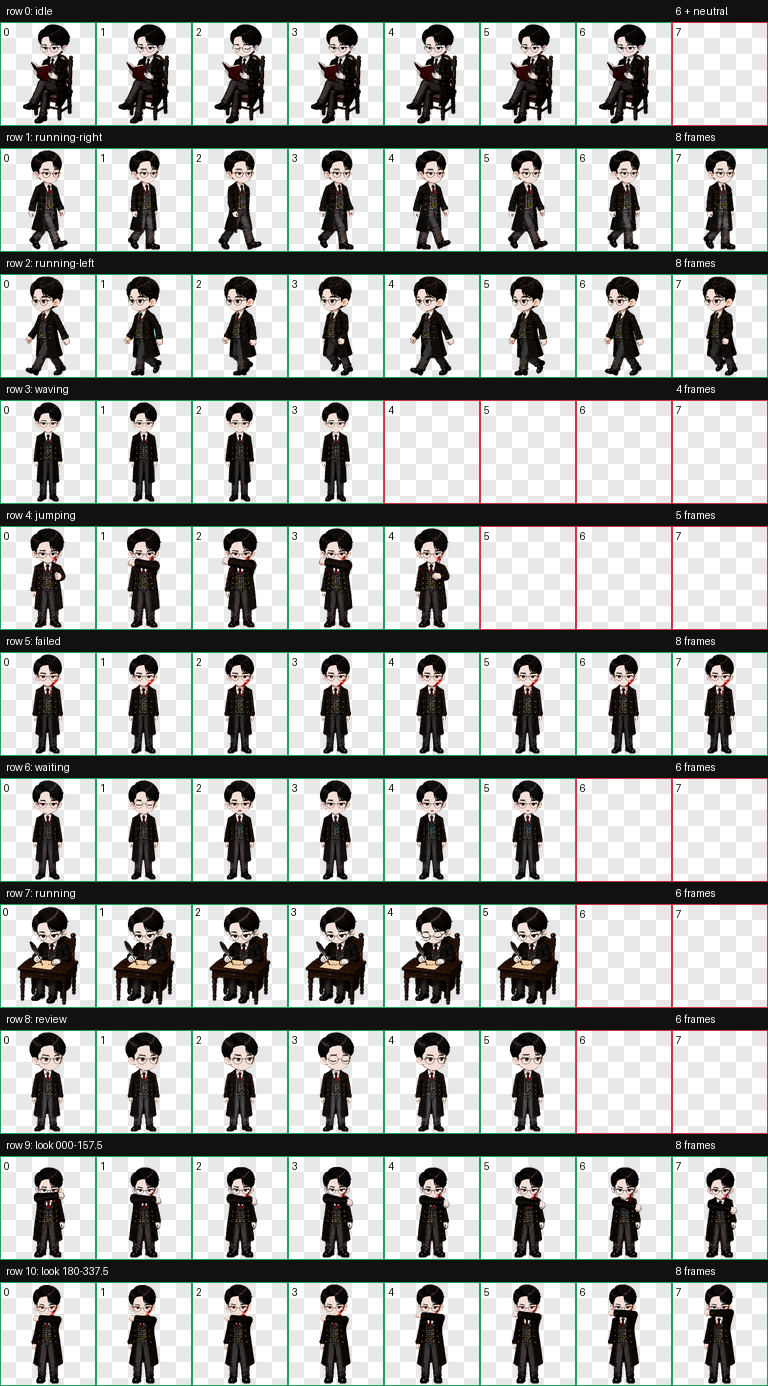
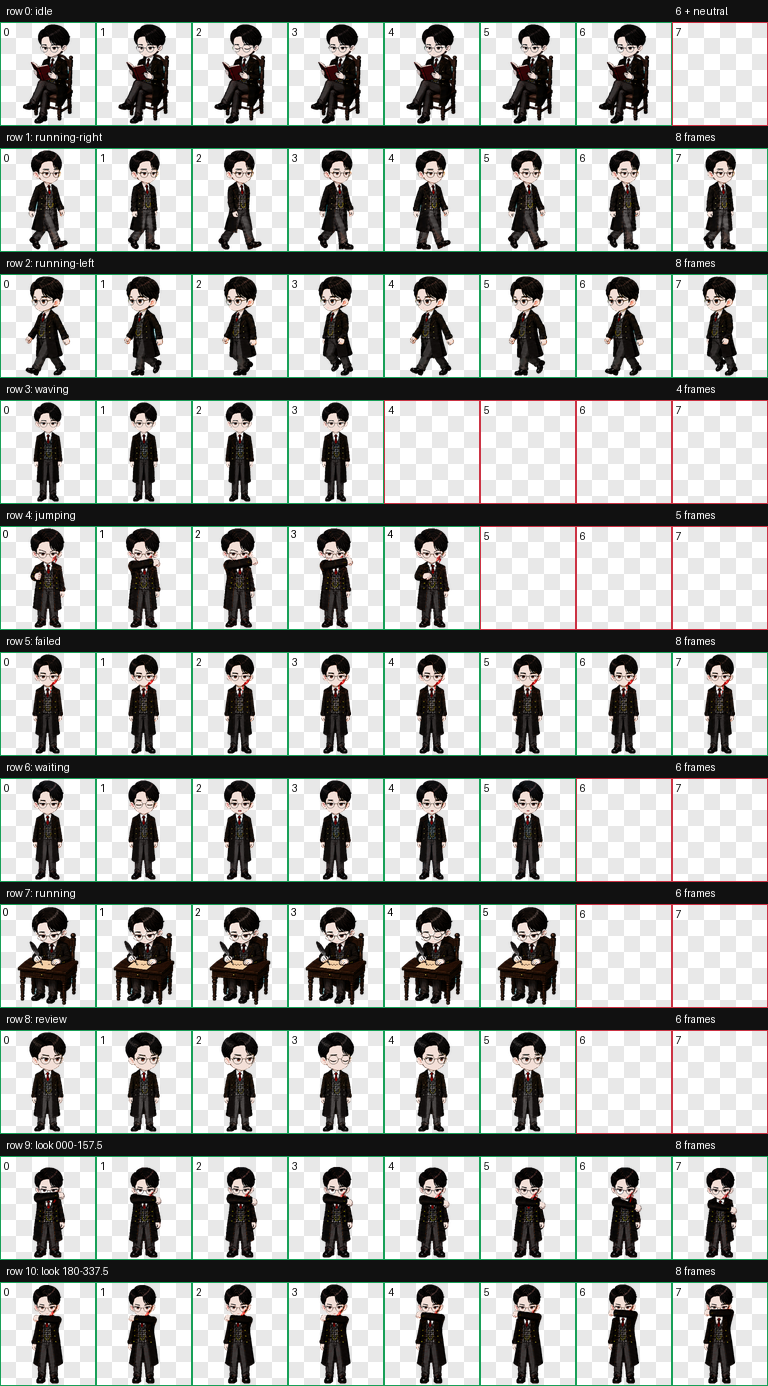
Polish jumping face and document animation states

diff --git a/scripts/fix_jumping_face.py b/scripts/fix_jumping_face.py
@@ -1,0 +1,135 @@
+#!/usr/bin/env python3
+"""Repair the jumping face and sharpen its forward glare.
+
+Only the eyebrow pixels in row 4 are touched. The head silhouette,
+hair, glasses, cheek blood, body, arms, hands, and legs stay byte-for-byte
+identical at the decoded RGBA level.
+"""
+
+from __future__ import annotations
+
+import argparse
+from pathlib import Path
+
+from PIL import Image, ImageDraw, ImageFont
+
+
+CELL_WIDTH = 192
+CELL_HEIGHT = 208
+JUMPING_ROW = 4
+JUMPING_FRAMES = 5
+
+# Coordinates are local to a 192x208 frame. These small rectangles contain
+# only the original brows and the skin immediately around them.
+LEFT_BROW_CLEAR = (78, 47, 92, 51)
+RIGHT_BROW_CLEAR = (100, 49, 110, 52)
+
+SKIN = (243, 223, 215, 255)
+BROW_EDGE = (111, 96, 92, 255)
+BROW_DARK = (35, 27, 26, 255)
+
+
+def frame_at(sheet: Image.Image, column: int) -> Image.Image:
+    left = column * CELL_WIDTH
+    top = JUMPING_ROW * CELL_HEIGHT
+    return sheet.crop((left, top, left + CELL_WIDTH, top + CELL_HEIGHT))
+
+
+def repair_expression(frame: Image.Image) -> Image.Image:
+    fixed = frame.copy()
+    draw = ImageDraw.Draw(fixed)
+
+    # Remove the nearly horizontal brows, then redraw them descending toward
+    # the bridge of the nose. The screen-right brow is shorter because the
+    # existing fringe naturally covers its outer end.
+    draw.rectangle(LEFT_BROW_CLEAR, fill=SKIN)
+    draw.rectangle(RIGHT_BROW_CLEAR, fill=SKIN)
+    draw.line(((78, 47), (84, 48), (91, 51)), fill=BROW_EDGE, width=2)
+    draw.line(((79, 47), (85, 49), (91, 51)), fill=BROW_DARK, width=1)
+    draw.line(((100, 51), (105, 49), (109, 48)), fill=BROW_EDGE, width=2)
+    draw.line(((100, 51), (105, 49), (109, 48)), fill=BROW_DARK, width=1)
+
+    return fixed
+
+
+def build_sheet(source: Path) -> tuple[Image.Image, list[Image.Image]]:
+    sheet = Image.open(source).convert("RGBA")
+    if sheet.size != (1536, 2288):
+        raise ValueError(f"Unexpected spritesheet size: {sheet.size}")
+
+    frames = [repair_expression(frame_at(sheet, column)) for column in range(JUMPING_FRAMES)]
+    for column, frame in enumerate(frames):
+        sheet.paste(frame, (column * CELL_WIDTH, JUMPING_ROW * CELL_HEIGHT))
+    return sheet, frames
+
+
+def checker_cell() -> Image.Image:
+    cell = Image.new("RGB", (CELL_WIDTH // 2, CELL_HEIGHT // 2), "white")
+    draw = ImageDraw.Draw(cell)
+    square = 16
+    for y in range(0, cell.height, square):
+        for x in range(0, cell.width, square):
+            if (x // square + y // square) % 2:
+                draw.rectangle(
+                    (x, y, x + square - 1, y + square - 1),
+                    fill=(232, 232, 232),
+                )
+    return cell
+
+
+def update_contact_sheet(path: Path, frames: list[Image.Image]) -> None:
+    contact = Image.open(path).convert("RGB")
+    if contact.size != (768, 1386):
+        raise ValueError(f"Unexpected contact sheet size: {contact.size}")
+
+    header_height = 22
+    cell_width = CELL_WIDTH // 2
+    cell_height = CELL_HEIGHT // 2
+    row_top = JUMPING_ROW * (header_height + cell_height) + header_height
+    font = ImageFont.load_default()
+
+    for column, frame in enumerate(frames):
+        cell = checker_cell()
+        sprite = frame.resize((cell_width, cell_height), Image.Resampling.LANCZOS)
+        cell.paste(sprite.convert("RGB"), (0, 0), sprite.getchannel("A"))
+        draw = ImageDraw.Draw(cell)
+        draw.rectangle(
+            (0, 0, cell_width - 1, cell_height - 1),
+            outline=(24, 160, 88),
+            width=1,
+        )
+        draw.text((3, 2), str(column), fill=(0, 0, 0), font=font)
+        contact.paste(cell, (column * cell_width, row_top))
+
+    contact.save(path, "PNG", optimize=True)
+
+
+def main() -> None:
+    parser = argparse.ArgumentParser()
+    parser.add_argument("--source", type=Path, default=Path("spritesheet.webp"))
+    parser.add_argument("--output", type=Path, required=True)
+    parser.add_argument("--preview", type=Path)
+    parser.add_argument("--contact-sheet", type=Path)
+    args = parser.parse_args()
+
+    sheet, frames = build_sheet(args.source)
+    args.output.parent.mkdir(parents=True, exist_ok=True)
+    sheet.save(args.output, "WEBP", lossless=True, method=6, exact=True)
+
+    if args.preview:
+        frames[0].save(
+            args.preview,
+            "GIF",
+            save_all=True,
+            append_images=frames[1:],
+            duration=160,
+            loop=0,
+            disposal=2,
+        )
+
+    if args.contact_sheet:
+        update_contact_sheet(args.contact_sheet, frames)
+
+
+if __name__ == "__main__":
+    main()

diff --git a/scripts/generate_previews.py b/scripts/generate_previews.py
@@ -1,0 +1,77 @@
+#!/usr/bin/env python3
+"""Generate README animation previews from the v2 spritesheet."""
+
+from __future__ import annotations
+
+import argparse
+from dataclasses import dataclass
+from pathlib import Path
+
+from PIL import Image
+
+
+CELL_WIDTH = 192
+CELL_HEIGHT = 208
+
+
+@dataclass(frozen=True)
+class Preview:
+    filename: str
+    cells: tuple[tuple[int, int], ...]
+    duration_ms: int
+
+
+PREVIEWS = (
+    Preview("preview-idle.gif", tuple((0, column) for column in range(7)), 280),
+    Preview("preview-running-right.gif", tuple((1, column) for column in range(8)), 140),
+    Preview("preview-running-left.gif", tuple((2, column) for column in range(8)), 140),
+    Preview("preview-waving.gif", tuple((3, column) for column in range(4)), 220),
+    Preview("preview-jumping.gif", tuple((4, column) for column in range(5)), 160),
+    Preview("preview-failed.gif", tuple((5, column) for column in range(8)), 180),
+    Preview("preview-waiting.gif", tuple((6, column) for column in range(6)), 240),
+    Preview("preview-running.gif", tuple((7, column) for column in range(6)), 180),
+    Preview("preview-review.gif", tuple((8, column) for column in range(6)), 220),
+    Preview(
+        "preview-look.gif",
+        tuple((9, column) for column in range(8))
+        + tuple((10, column) for column in range(8)),
+        140,
+    ),
+)
+
+
+def extract(sheet: Image.Image, row: int, column: int) -> Image.Image:
+    left = column * CELL_WIDTH
+    top = row * CELL_HEIGHT
+    return sheet.crop((left, top, left + CELL_WIDTH, top + CELL_HEIGHT))
+
+
+def main() -> None:
+    parser = argparse.ArgumentParser()
+    parser.add_argument(
+        "--root",
+        type=Path,
+        default=Path(__file__).resolve().parents[1],
+    )
+    args = parser.parse_args()
+
+    sheet_path = args.root / "spritesheet.webp"
+    sheet = Image.open(sheet_path).convert("RGBA")
+    if sheet.size != (1536, 2288):
+        raise ValueError(f"Unexpected spritesheet size: {sheet.size}")
+
+    for preview in PREVIEWS:
+        frames = [extract(sheet, row, column) for row, column in preview.cells]
+        frames[0].save(
+            args.root / preview.filename,
+            "GIF",
+            save_all=True,
+            append_images=frames[1:],
+            duration=preview.duration_ms,
+            loop=0,
+            disposal=2,
+        )
+
+
+if __name__ == "__main__":
+    main()

diff --git a/README.md b/README.md
@@ -1,15 +1,21 @@
 # 야인이반 (Yain Ivan)
 
-![야인이반이 의자에 앉아 책을 읽는 idle 애니메이션](preview-idle.gif)
-
-![야인이반이 책상에서 글을 쓰는 running 애니메이션](preview-running.gif)
-
 뮤지컬 《브라더스 까라마조프》의 이반에서 영감을 받아 만든 비공식 Codex 데스크톱용 픽셀 모에 펫입니다.
 
 - 검은 롱코트, 회색 체크 조끼, 와인색 넥타이와 둥근 안경
 - 냉소적이고 반항적인 표정, 단정하고 정적인 태도
 - 책을 읽는 idle, 고정 자세의 필기 running, 16방향 시선 반응을 포함한 v2 스프라이트
 - 8열 × 11행, 1536 × 2288 WebP
+
+## 상황별 애니메이션
+
+| 상태 | 미리보기 | 상태 | 미리보기 |
+| --- | --- | --- | --- |
+| 독서 중 (`idle`) | ![책을 읽는 idle 애니메이션](preview-idle.gif) | 작업 중 (`running`) | ![책상에서 글을 쓰는 running 애니메이션](preview-running.gif) |
+| 오른쪽 이동 (`running-right`) | ![오른쪽으로 이동하는 애니메이션](preview-running-right.gif) | 왼쪽 이동 (`running-left`) | ![왼쪽으로 이동하는 애니메이션](preview-running-left.gif) |
+| 인사 (`waving`) | ![손을 들어 인사하는 애니메이션](preview-waving.gif) | 대기 (`waiting`) | ![대기하는 애니메이션](preview-waiting.gif) |
+| 점프 (`jumping`) | ![팔을 올리며 정면을 노려보는 jumping 애니메이션](preview-jumping.gif) | 실패 (`failed`) | ![실패 상태 애니메이션](preview-failed.gif) |
+| 검토 (`review`) | ![검토 중인 애니메이션](preview-review.gif) | 시선 반응 (`look`) | ![16방향 시선 반응 애니메이션](preview-look.gif) |
 
 ## 설치
 
@@ -44,11 +50,11 @@ chmod +x install.sh
 
 - `pet.json` — Codex 펫 메타데이터
 - `spritesheet.webp` — 실제 v2 애니메이션 스프라이트
-- `preview-idle.gif` — idle 미리보기
-- `preview-running.gif` — 필기 running 미리보기
+- `preview-*.gif` — 상황별 애니메이션 미리보기
 - `contact-sheet.png` — 전체 상태 확인용 시트
 - `validation.json` — v2 구조 검증 결과
 - `SHA256SUMS.txt` — 배포 파일 무결성 확인값
+- `scripts/` — jumping 얼굴 보정 및 미리보기 재생성 스크립트
 
 ## 안내
 
@@ -63,5 +69,7 @@ chmod +x install.sh
 Yain Ivan is an unofficial pixel-moe pet for the Codex desktop app, inspired by Ivan from the musical *The Brothers Karamazov*.
 
 To install, run `install.ps1` on Windows or `install.sh` on macOS/Linux. You may also copy `pet.json` and `spritesheet.webp` together into `~/.codex/pets/yain-ivan/`, refresh the pet picker, and select **야인이반**.
+
+The table above previews every animation state, including movement, jumping, waiting, failure, review, and the 16-direction look response.
 
 This is a personal, non-commercial fan work. It is not affiliated with or endorsed by actor Lim Kang-sung, the musical production, the original work or its rightsholders, or OpenAI. No source photographs are included.
